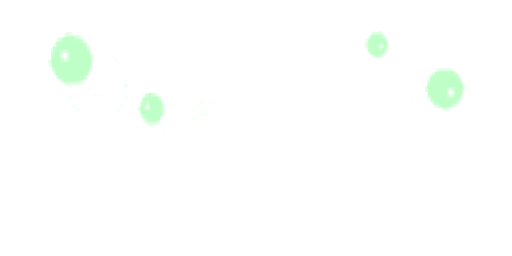
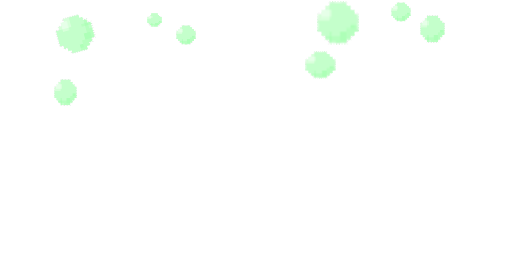
$slime

diff --git a/game/04-Variables/canvasmodel-main.js b/game/04-Variables/canvasmodel-main.js
@@ -2305,38 +2305,34 @@ Renderer.CanvasModels["main"] = {
          *
          *
          */
-		"slime_bubbles": {
+		"slime_bubble": {
 			srcfn(options) {
 				return `img/transformations/slime/bubble/${options.slime_bubble_type}.png`;
 			},
 			showfn(options) {
-				return options.show_tf && isPartEnabled(options.slime_bubble_type);
+				return options.show_tf && options.show_face && isPartEnabled(options.slime_bubble_type)
 			},
 			z: ZIndices.horns,
 			animation: "idle"
 		},
 		"slime_stream": {
 			srcfn(options) {
-				return `img/transformations/slime/bubble/${options.slime_stream_type}.png`;
-			},
-			masksrcfn(options) {
-				return options.head_mask_src;
+				return `img/transformations/slime/stream/${options.slime_stream_type}.png`;
 			},
 			showfn(options) {
-				return options.show_tf && isPartEnabled(options.slime_stream_type);
+				return options.show_tf && options.show_face && isPartEnabled(options.slime_stream_type)
 			},
-			z: ZIndices.ears,
+			z: ZIndices.over_head,
 			animation: "idle"
 		},
-		"slime_body": {
+		"slime_core": {
 			srcfn(options) {
-				return `img/transformations/sheep/tail/${options.slime_body_type}.png`;
+				return `img/transformations/slime/core/${options.slime_core_type}.png`;
 			},
 			showfn(options) {
-				return options.show_tf && isPartEnabled(options.slime_body_type);
+				return options.show_tf && options.show_face && isPartEnabled(options.slime_core_type)
 			},
-			filters: ["hair"],
-			z: ZIndices.lower,
+			z: ZIndices.skin,
 			animation: "idle"
 		},
 
